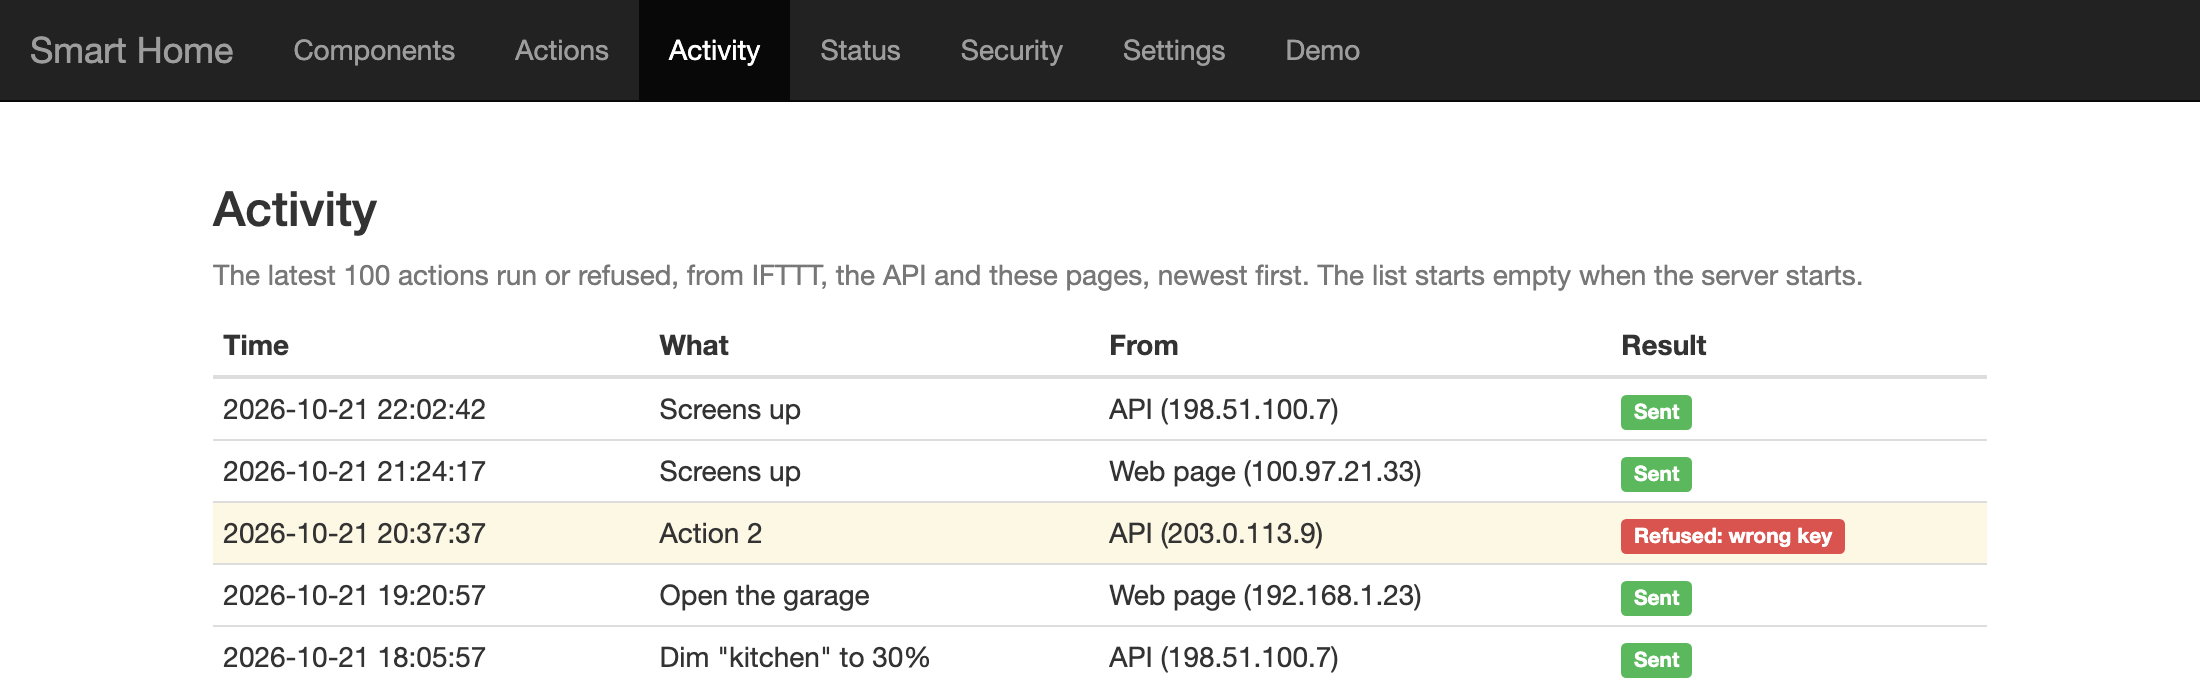
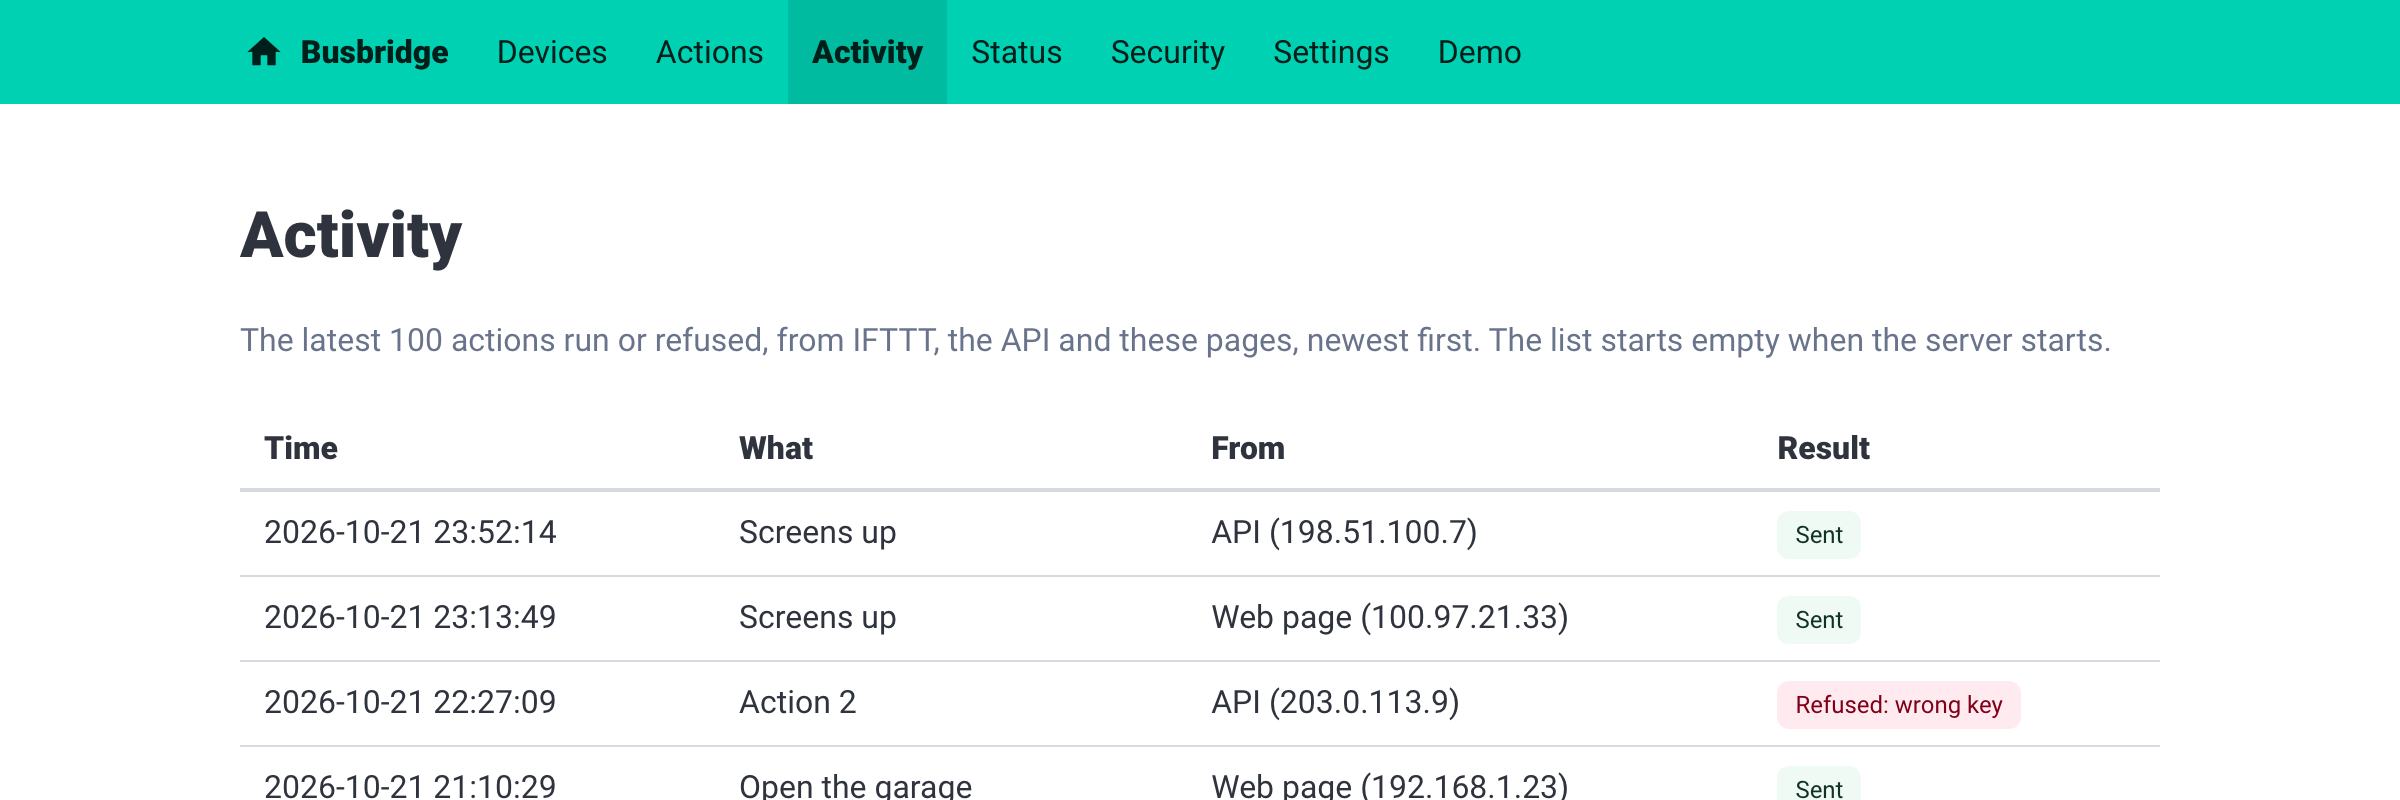
README with screenshots of the new look, light and dark, and the 2.1 features.

diff --git a/README.md b/README.md
@@ -11,7 +11,10 @@ Raspberry Pi.
 ![Java 17+](https://img.shields.io/badge/Java-17%2B-blue)
 [![MIT license](https://img.shields.io/badge/license-MIT-green)](LICENSE)
 
-<img src="misc/screenshots/status.png" alt="The Status page: the HDL bus is alive, with a graph of the last hour" width="800" />
+<picture>
+  <source media="(prefers-color-scheme: dark)" srcset="misc/screenshots/status-dark.png">
+  <img src="misc/screenshots/status.png" alt="The Status page: the HDL bus is alive, with a graph of the last hour" width="800" />
+</picture>
 
 [What you get](#-what-you-get) · [How it works](#-how-it-works) · [Quick start](#-quick-start) ·
 [Raspberry Pi](#-set-it-up-on-a-raspberry-pi) · [Voice commands](#-voice-commands-with-ifttt) ·
@@ -21,23 +24,32 @@ Raspberry Pi.
 
 ## ✨ What you get
 
-- 🔍 **Finds your devices.** Searches the bus and lists what answers: dimmers, relays, curtains, panels, sensors.
-- 🎛 **Actions without code.** Set up dimmer and custom actions (panel buttons, curtains, switches) on a web page.
+- 🔍 **Finds your devices.** Searches the bus and lists what answers: dimmers, relays, curtains, panels, sensors, and 230+ other types.
+- 🎛 **Actions without code.** Set up scenes, dimmers, curtains, panel buttons and switches on a web page.
 - ▶ **Run them right there.** Test an action with one click, or set a dimmer to any level.
 - 🎤 **Voice control.** Google Assistant through IFTTT, or Siri Shortcuts, Tasker, Home Assistant, `curl`…
-- 📋 **Recent activity.** The latest 100 actions run or refused, with when and from where.
-- 💓 **Status.** Is the HDL bus alive, how long has the server run, and how warm is the Pi (when it can tell).
+- 📋 **Live activity.** The latest 100 actions run or refused, with when and from where, as they happen.
+- 💓 **Live status.** Is the HDL bus alive, how busy is it, and how warm is the Pi.
+- 📱 **Made for your phone too.** Light or dark, like your phone, and on your home screen like an app.
 - 🔒 **Protected.** A random key guards the API. The pages only answer your home network, or [Tailscale](https://tailscale.com/) when you're away.
 - 🔄 **Safe updates.** One command checks that the new version runs on your Java before installing it, then restarts the server.
 
 <table>
   <tr>
-    <td><img src="misc/screenshots/components.png" alt="The Devices page lists every device found on the bus" /></td>
+    <td><img src="misc/screenshots/devices.png" alt="The Devices page lists every device found on the bus" /></td>
     <td><img src="misc/screenshots/activity.png" alt="The Activity page lists what was done, when and from where" /></td>
   </tr>
   <tr>
     <td align="center">The devices on the bus</td>
     <td align="center">Recent actions and refusals</td>
+  </tr>
+  <tr>
+    <td><img src="misc/screenshots/actions.png" alt="The Actions page with Run and Set buttons" /></td>
+    <td align="center"><img src="misc/screenshots/phone.png" alt="The Actions page on a phone, in dark mode" width="220" /></td>
+  </tr>
+  <tr>
+    <td align="center">Your actions, one click away</td>
+    <td align="center">On your phone, in the dark</td>
   </tr>
 </table>
 
@@ -178,14 +190,19 @@ Google Assistant doesn't talk to the server directly, so [IFTTT](https://ifttt.c
 
 ### 1. Create an action
 
-On the server's **Actions** page, create a **custom action**. Give it a name, e.g. *Open the garage*, and pick what it
-should do. Pressing a panel button works great: choose the panel and **Panel control**, then set **Parameter 1** to `18` (Control
-button), **Parameter 2** to the button number, and **Parameter 3** to `1` (on) or `0` (off). Add more commands to do
-several things at once.
+On the server's **Actions** page, create a **custom action**. Give it a name, e.g. *Movie night*, and pick what it
+should do. The form names each value the operation needs:
+
+- **A scene** is often the easiest: choose the device and **Scene control**, then the *Area* and *Scene number* (HDL's
+  setup tool shows them).
+- **A panel button** works great too: choose the panel and **Panel control**, then *Function* `18` (control button), the
+  *Button number*, and `1` (on) or `0` (off).
+
+Add more commands to do several things at once.
 
 Click **▶ Run** to try it. 🎯
 
-<img src="misc/screenshots/actions-run.png" alt="A custom action with its Run button and URL" width="700" />
+<img src="misc/screenshots/actions.png" alt="Actions with their Run and Set buttons" width="700" />
 
 ### 2. Create the IFTTT applet
 
